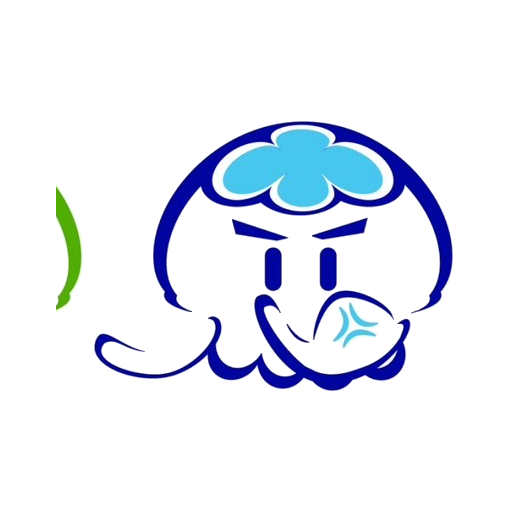
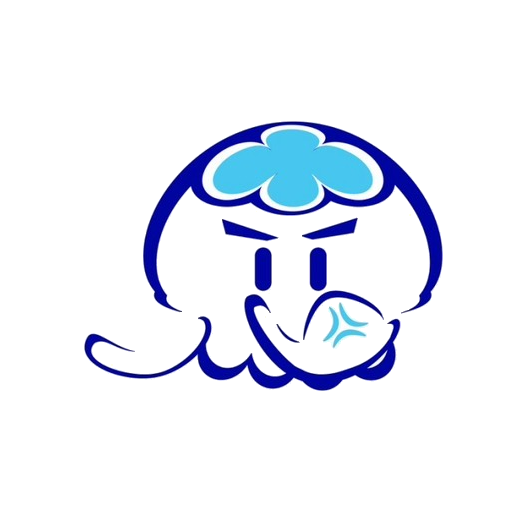
Polish jellyfish collection visuals

Changed region(s): [[0.1562, 0.2188, 0.9062, 0.7812], [0.0938, 0.375, 0.1875, 0.625]]

diff --git a/css/main.css b/css/main.css
@@ -1320,9 +1320,9 @@ button:disabled {
 }
 
 .skin-preview .jelly-character {
-  width: 150px;
-  height: 150px;
-  --stage-scale: 0.86;
+  width: min(176px, 72%);
+  height: min(176px, 72%);
+  --stage-scale: 0.88;
 }
 
 .skin-preview .jelly-character .jelly-shine {
@@ -1665,18 +1665,48 @@ button:disabled {
 }
 
 .collection-art {
+  --collection-accent: #55cfe0;
   position: relative;
   display: grid;
-  height: 145px;
+  height: 178px;
   place-items: center;
   overflow: hidden;
-  background: linear-gradient(145deg, rgba(222, 249, 251, 0.85), rgba(238, 231, 255, 0.85));
+  isolation: isolate;
+  background: linear-gradient(145deg, rgba(222, 249, 251, 0.9), rgba(238, 231, 255, 0.9));
+}
+
+.collection-art::before {
+  position: absolute;
+  width: 124px;
+  height: 124px;
+  border: 1px solid color-mix(in srgb, var(--collection-accent), white 55%);
+  border-radius: 50%;
+  background: color-mix(in srgb, var(--collection-accent), white 91%);
+  box-shadow: 0 13px 28px color-mix(in srgb, var(--collection-accent), transparent 78%);
+  content: "";
+  opacity: 0.82;
+}
+
+.collection-art::after {
+  position: absolute;
+  right: 12%;
+  bottom: -17px;
+  left: 12%;
+  height: 44px;
+  border-radius: 50%;
+  background: color-mix(in srgb, var(--collection-accent), transparent 86%);
+  content: "";
+  filter: blur(7px);
 }
 
 .collection-art .jelly-character {
-  width: 140px;
-  height: 140px;
-  --stage-scale: 0.82;
+  z-index: 1;
+}
+
+.collection-art .jelly-character {
+  width: min(180px, 72%);
+  height: min(180px, 72%);
+  --stage-scale: 0.88;
 }
 
 .collection-art .jelly-shine {

diff --git a/js/ui.js b/js/ui.js
@@ -639,7 +639,7 @@ function renderCollectionCard(save, skin) {
   const current = save.jellyfish.equippedSkin === skin.id;
   return `
     <article class="collection-card ${collected ? "is-collected" : "is-locked"} ${current ? "is-current" : ""}">
-      <div class="collection-art ${collected ? "" : "locked-art"}">${renderJellyfish(save, { skinId: skin.id, accessoryId: null, actionClass: "preview-character" })}${!collected ? "<span class=lock-overlay>🔒</span>" : ""}</div>
+      <div class="collection-art skin-art-${skin.id} ${collected ? "" : "locked-art"}" style="--collection-accent:${skin.accent}">${renderJellyfish(save, { skinId: skin.id, accessoryId: null, actionClass: "preview-character" })}${!collected ? "<span class=lock-overlay>🔒</span>" : ""}</div>
       <div class="collection-copy"><span class="collection-index">${String(skin.id === "normal" ? 1 : skin.requiredLevel).padStart(2, "0")}</span><h3>${collected ? skin.name : "???"}</h3><p>${collected ? skin.description : `達到 LV${skin.requiredLevel} 後可購買`}</p></div>
       <span class="collection-state">${current ? "✓ 使用中" : collected ? "✓ 已收集" : "尚未發現"}</span>
     </article>

diff --git a/css/responsive.css b/css/responsive.css
@@ -187,7 +187,7 @@
   }
 
   .collection-grid {
-    grid-template-columns: repeat(4, minmax(0, 1fr));
+    grid-template-columns: repeat(3, minmax(0, 1fr));
     gap: 16px;
   }
 }
@@ -327,12 +327,13 @@
   }
 
   .collection-art {
-    height: 112px;
+    height: 126px;
   }
 
   .collection-art .jelly-character {
-    width: 110px;
-    height: 110px;
+    width: min(126px, 82%);
+    height: min(126px, 82%);
+    --stage-scale: 0.84;
   }
 
   .collection-copy {

diff --git a/tools/slice_jellyfish.py b/tools/slice_jellyfish.py
@@ -92,6 +92,36 @@ def prepare_tile(image: Image.Image, column: int, row: int) -> Image.Image:
             if touches_edge:
                 for component_y, component_x in component:
                     rgba[component_y, component_x, 3] = 0
+
+        if column == 3 and row == 0 and any(x <= 3 for _, x in component):
+            component_pixels = rgba[
+                [component_y for component_y, _ in component],
+                [component_x for _, component_x in component],
+                :3,
+            ].astype(np.int16)
+            component_red = component_pixels[:, 0]
+            component_green = component_pixels[:, 1]
+            component_blue = component_pixels[:, 2]
+            green_ratio = np.mean(
+                (component_green > 90)
+                & (component_green > component_red * 1.15)
+                & (component_green > component_blue * 1.05)
+            )
+            if green_ratio > 0.2:
+                for component_y, component_x in component:
+                    rgba[component_y, component_x, 3] = 0
+
+    # The angry jellyfish tile also contains a green fragment from the
+    # neighbouring source artwork. It is outside the character silhouette and
+    # should never be carried into the standalone skin asset.
+    if column == 3 and row == 0:
+        red = rgba[:, :, 0].astype(np.int16)
+        green = rgba[:, :, 1].astype(np.int16)
+        blue = rgba[:, :, 2].astype(np.int16)
+        green_fragment = (green > 90) & (green > red * 1.15) & (green > blue * 1.05)
+        green_fragment[:, int(width * 0.24):] = False
+        rgba[green_fragment, 3] = 0
+
     cleaned = Image.fromarray(rgba, mode="RGBA")
 
     bbox = cleaned.getchannel("A").getbbox()

diff --git a/README.md b/README.md
@@ -1,6 +1,6 @@
-# 水母養成所 Jelly Lab V2.2
+# 水母養成所 Jelly Lab V2.3
 
-Jelly Lab V2.2 是在既有養成與 BOSS 挑戰 MVP 上的小幅增量更新。延續共用戰鬥商品 Visual、批量購買／使用與水母顏色選擇，調整新玩家初始點數與戰鬥商品卡的中心對齊。專案仍使用 HTML5、CSS3、Vanilla JavaScript 與 `localStorage`，不需要後端、帳號或 npm 依賴即可遊玩。
+Jelly Lab V2.3 是在既有養成與 BOSS 挑戰 MVP 上的小幅視覺增量更新。延續共用戰鬥商品 Visual、批量購買／使用與水母顏色選擇，這版調整水母圖鑑與造型商店的角色比例、卡片欄數、配色光圈，並清理爆氣水母素材的跨格綠色殘片。專案仍使用 HTML5、CSS3、Vanilla JavaScript 與 `localStorage`，不需要後端、帳號或 npm 依賴即可遊玩。
 
 ## 啟動方式
 
@@ -112,6 +112,14 @@ https://<GitHub帳號>.github.io/<repository名稱>/?debug=1
 - 膠囊統一為 78×40px；只保留膠囊本體旋轉，不使用個別商品的水平位移補丁。
 - 桌面使用等寬 Grid，手機 320／375／390／430px 皆限制為單欄且不產生橫向捲動。
 
+### V2.3 造型視覺調整
+
+- 水母圖鑑桌面版改為三欄大卡片，讓角色圖與名稱更容易辨識。
+- 圖鑑卡片新增依 Skin accent 變化的柔和彩色光圈與底部光暈；鎖定狀態仍維持原本的模糊與鎖頭提示。
+- 造型商店預覽角色比例微調，與圖鑑的角色視覺尺度更一致。
+- 清理 `jelly-angry.png` 左側跨素材綠色殘片，並將清理規則保留在 `tools/slice_jellyfish.py`，方便之後重建素材。
+- 本版只涉及 UI／素材，不變更 Save 結構；`GAME_CONFIG.version` 維持 3，不需要額外 Migration。
+
 ### Battle Screen UI 修正
 
 - Battle Screen 的 KTT、PNN、QCC、RNN、PPT、NAP 都使用同一個 Icon Frame 置中規則。
@@ -199,3 +207,6 @@ Battle 中的 HP、Boss HP、狀態、回合、Battle Log 都只存在 `battle.j
 | Battle Screen：KTT／PNN／QCC／RNN／PPT／NAP Visual 與 Icon Frame 中心對齊 | 通過；桌面與 320px Visual 中心誤差約 0px |
 | Battle Screen：Visual 不覆蓋名稱／Damage，使用按鈕仍可開啟 Action Panel | 通過；430px 實際點擊 KTT「選擇」並取消 |
 | Battle Screen：320／375／390／430px 無橫向 Scroll | 通過；各寬度卡片與按鈕均在可視範圍內 |
+| V2.3：桌面圖鑑三欄、角色置中與 Skin 配色光圈 | 通過；1265px 實測三欄，角色與卡片中心對齊 |
+| V2.3：320／375／390／430px 圖鑑 Responsive | 通過；四種寬度均無橫向 Scroll，圖鑑改為雙欄 |
+| V2.3：爆氣水母素材清理 | 通過；512×512 PNG 左四分之一未再檢出異常綠色像素 |
